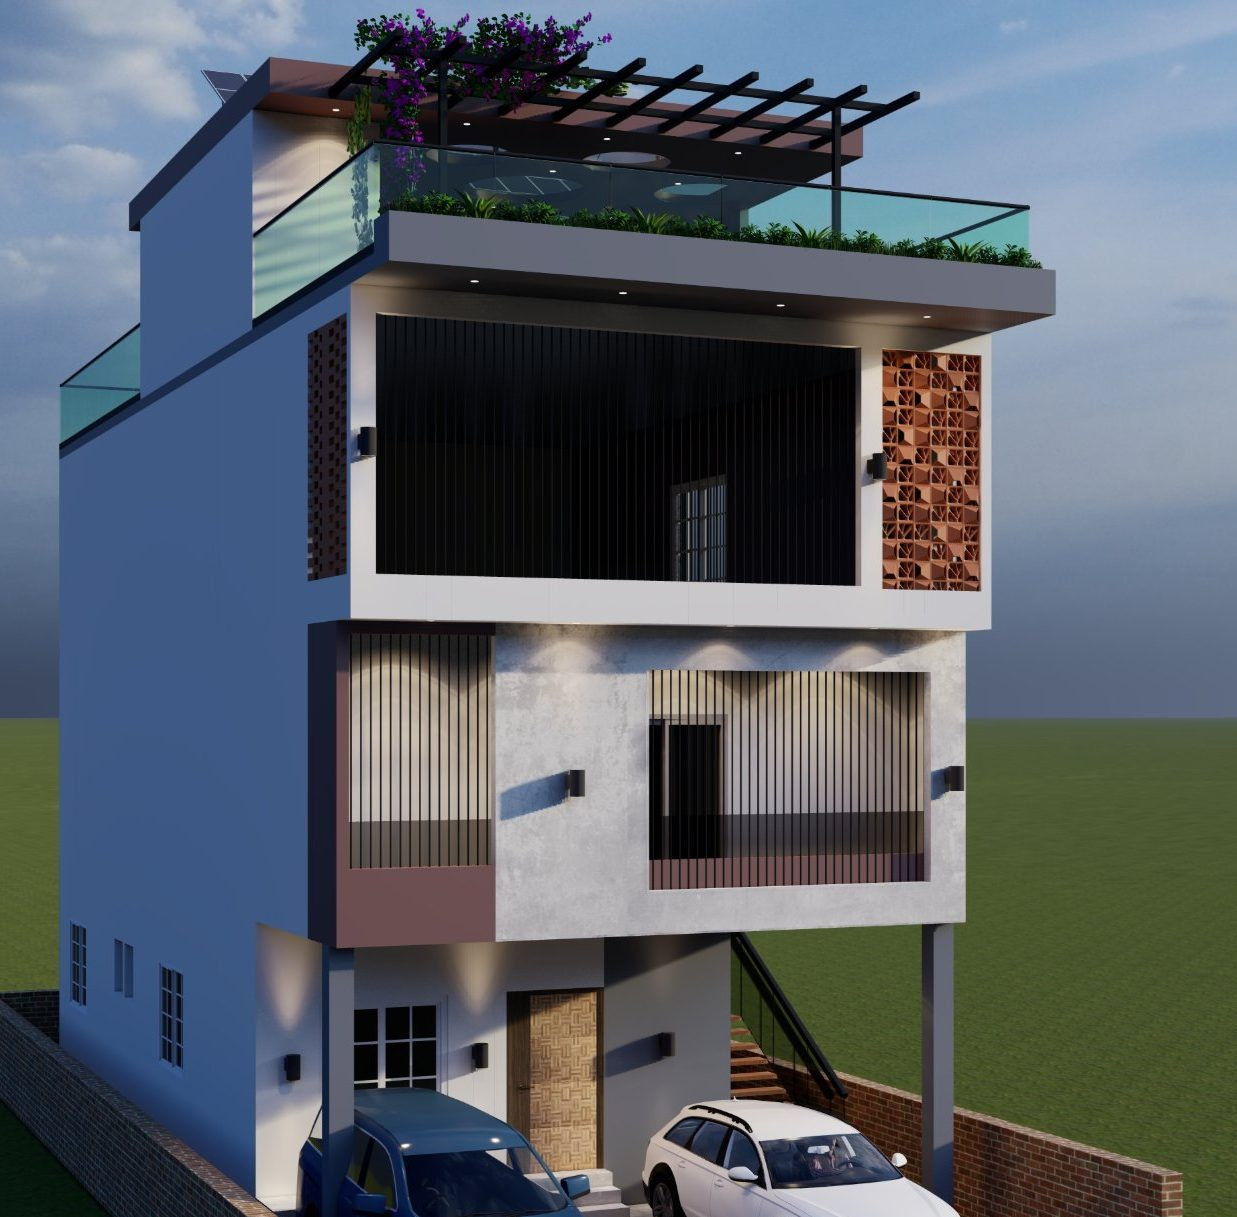
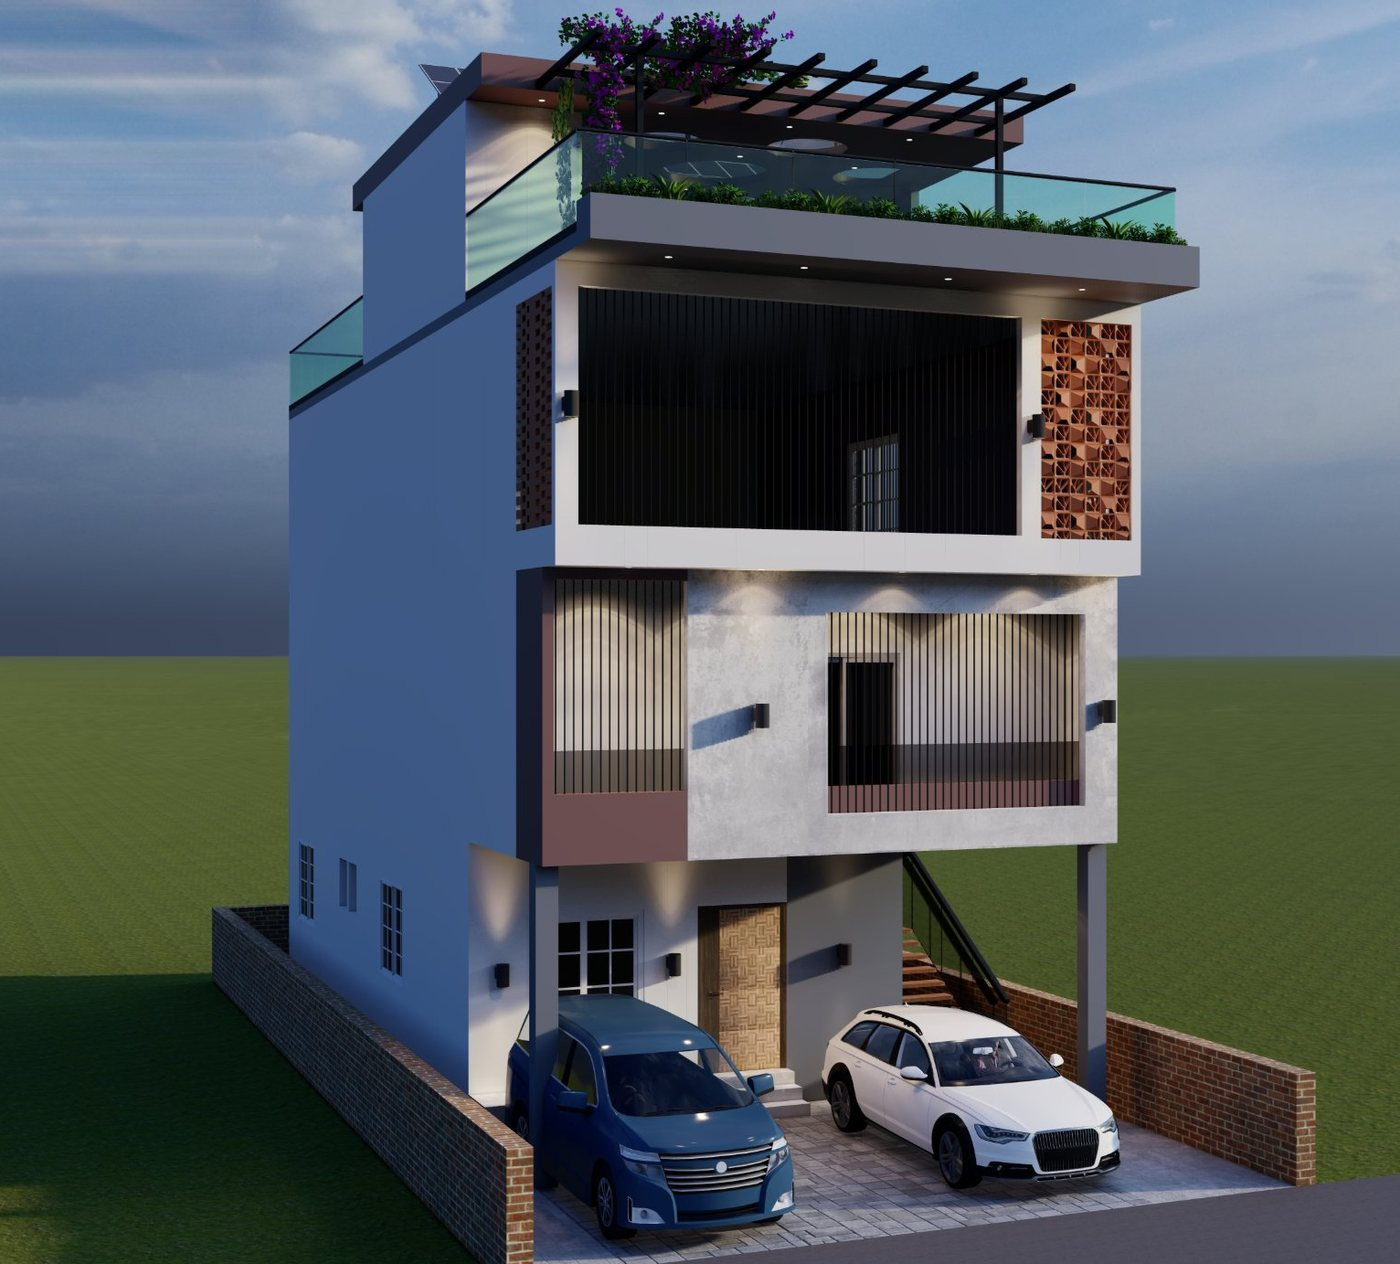
Shilbhadra Residence: full-building hero crop; correct pool wording
Claude-Session: https://claude.ai/code/session_01Esnxuys2BbVrFgq67modbx

diff --git a/projects/shilbhadra-residence-kishanganj.md b/projects/shilbhadra-residence-kishanganj.md
@@ -1,6 +1,6 @@
 ---
 title: Shilbhadra Residence
-subtitle: G+2 Contemporary Residence with Rooftop Pool & Terrace Lounge
+subtitle: G+2 Contemporary Residence with Pool Deck & Rooftop Lounge
 description: A G+2 residence in Kishanganj, Bihar, designed on a narrow 26'-7" wide plot with
   1,450 sq.ft. per floor. It features a layered contemporary façade, covered parking beneath the
   cantilevered upper floors, a second-floor swimming pool behind a terracotta jaali, and a rooftop
@@ -71,7 +71,7 @@ gallery:
   - image: /images/uploads/shilbhadra-residence-floor-plans-ground-first-second.jpg
     alt: Ground, first and second floor plans of the Shilbhadra Residence
 seo:
-  meta_title: G+2 House Design with Rooftop Pool, Kishanganj | ADS Creative Space
+  meta_title: G+2 House Design with Pool, Kishanganj | ADS Creative Space
   meta_description: Shilbhadra Residence, a G+2 contemporary home in Kishanganj, Bihar, with a
     second-floor pool, rooftop lounge and solar panels, by ADS Creative Space.
 ---
